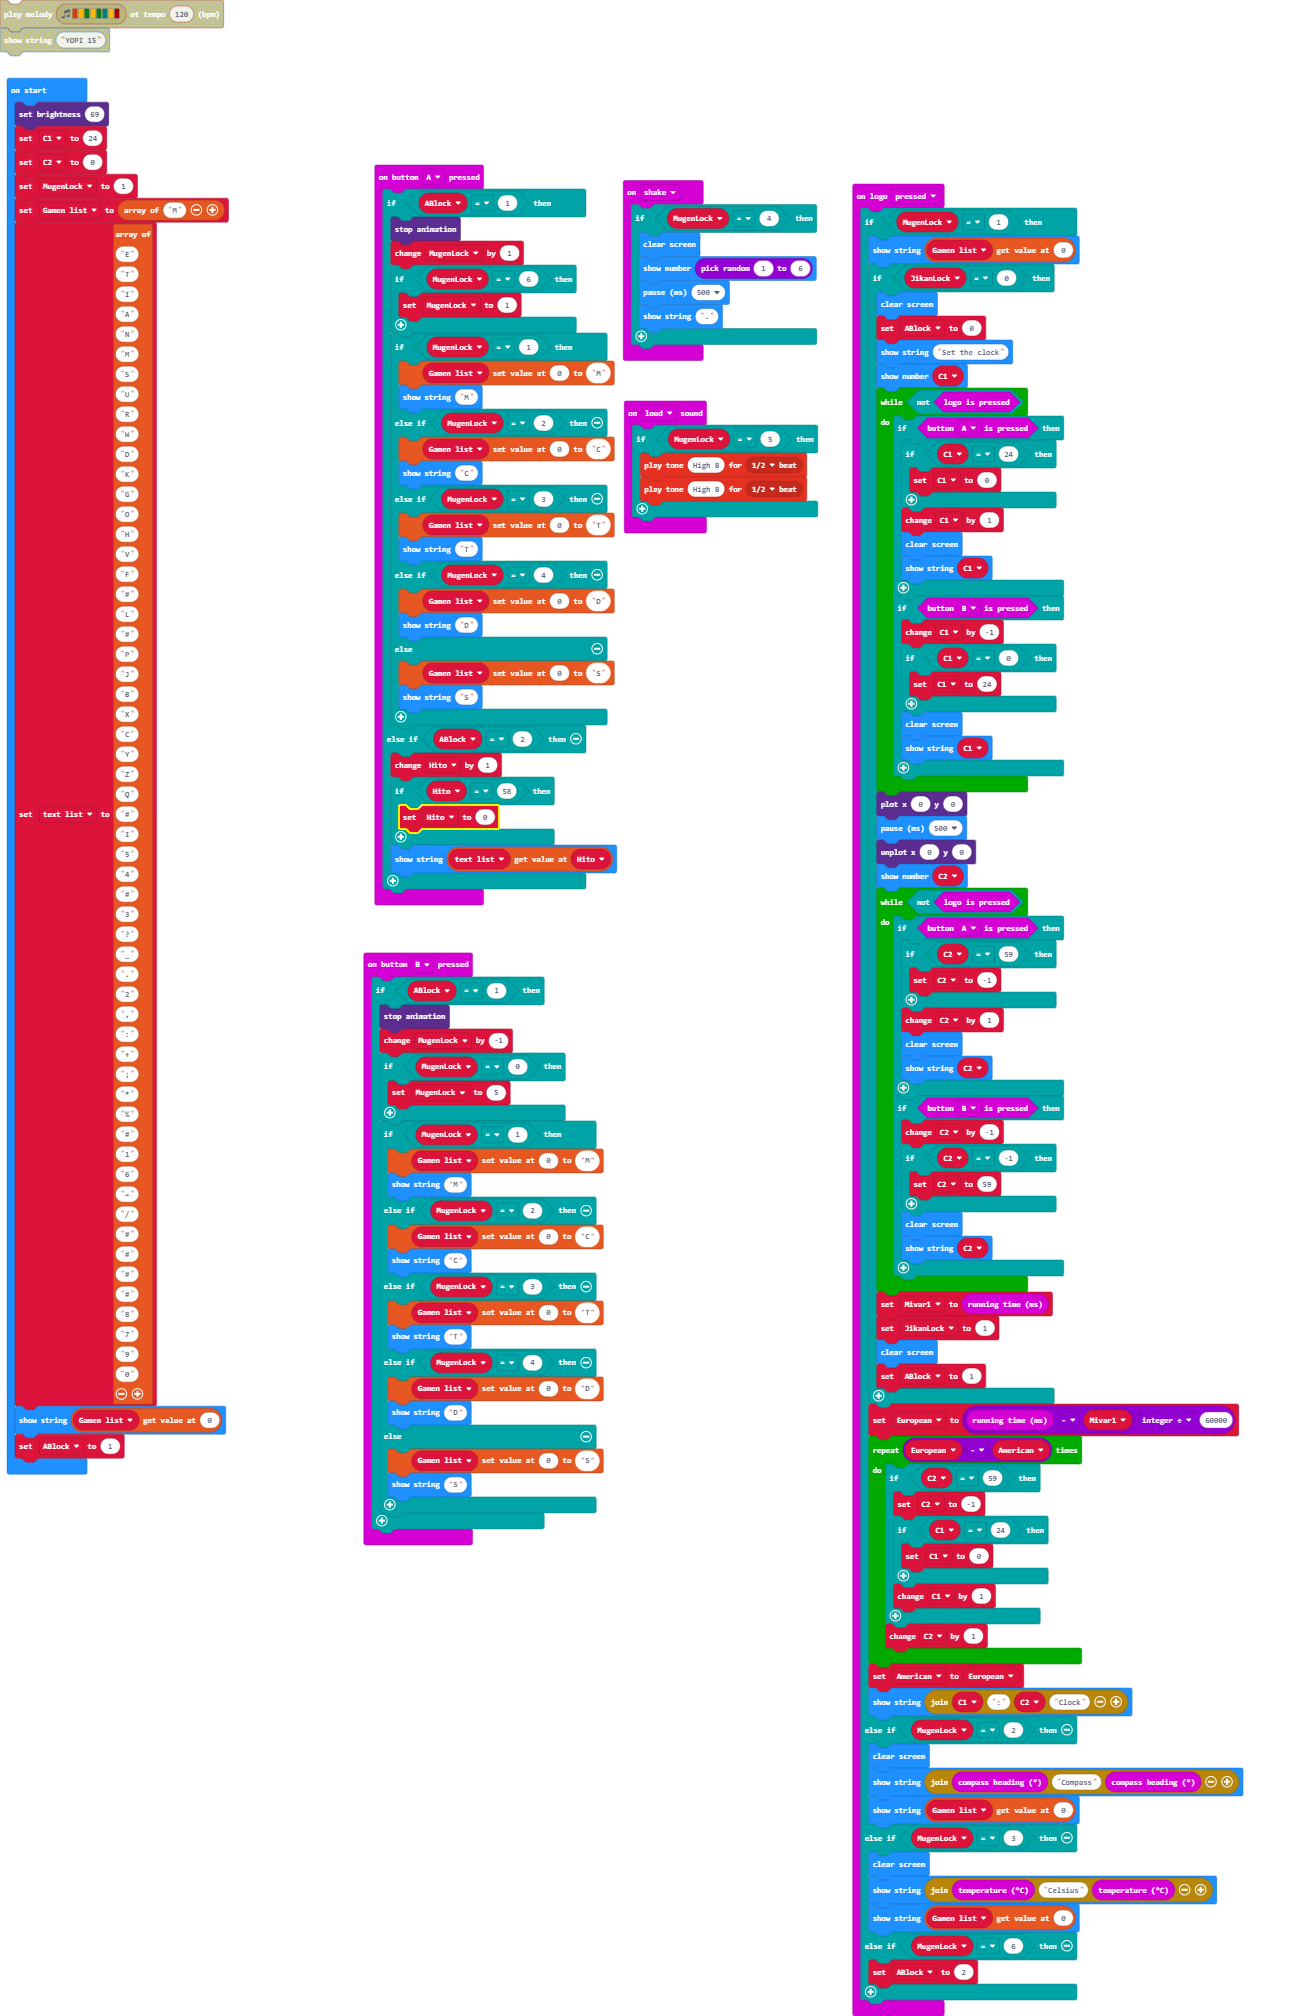
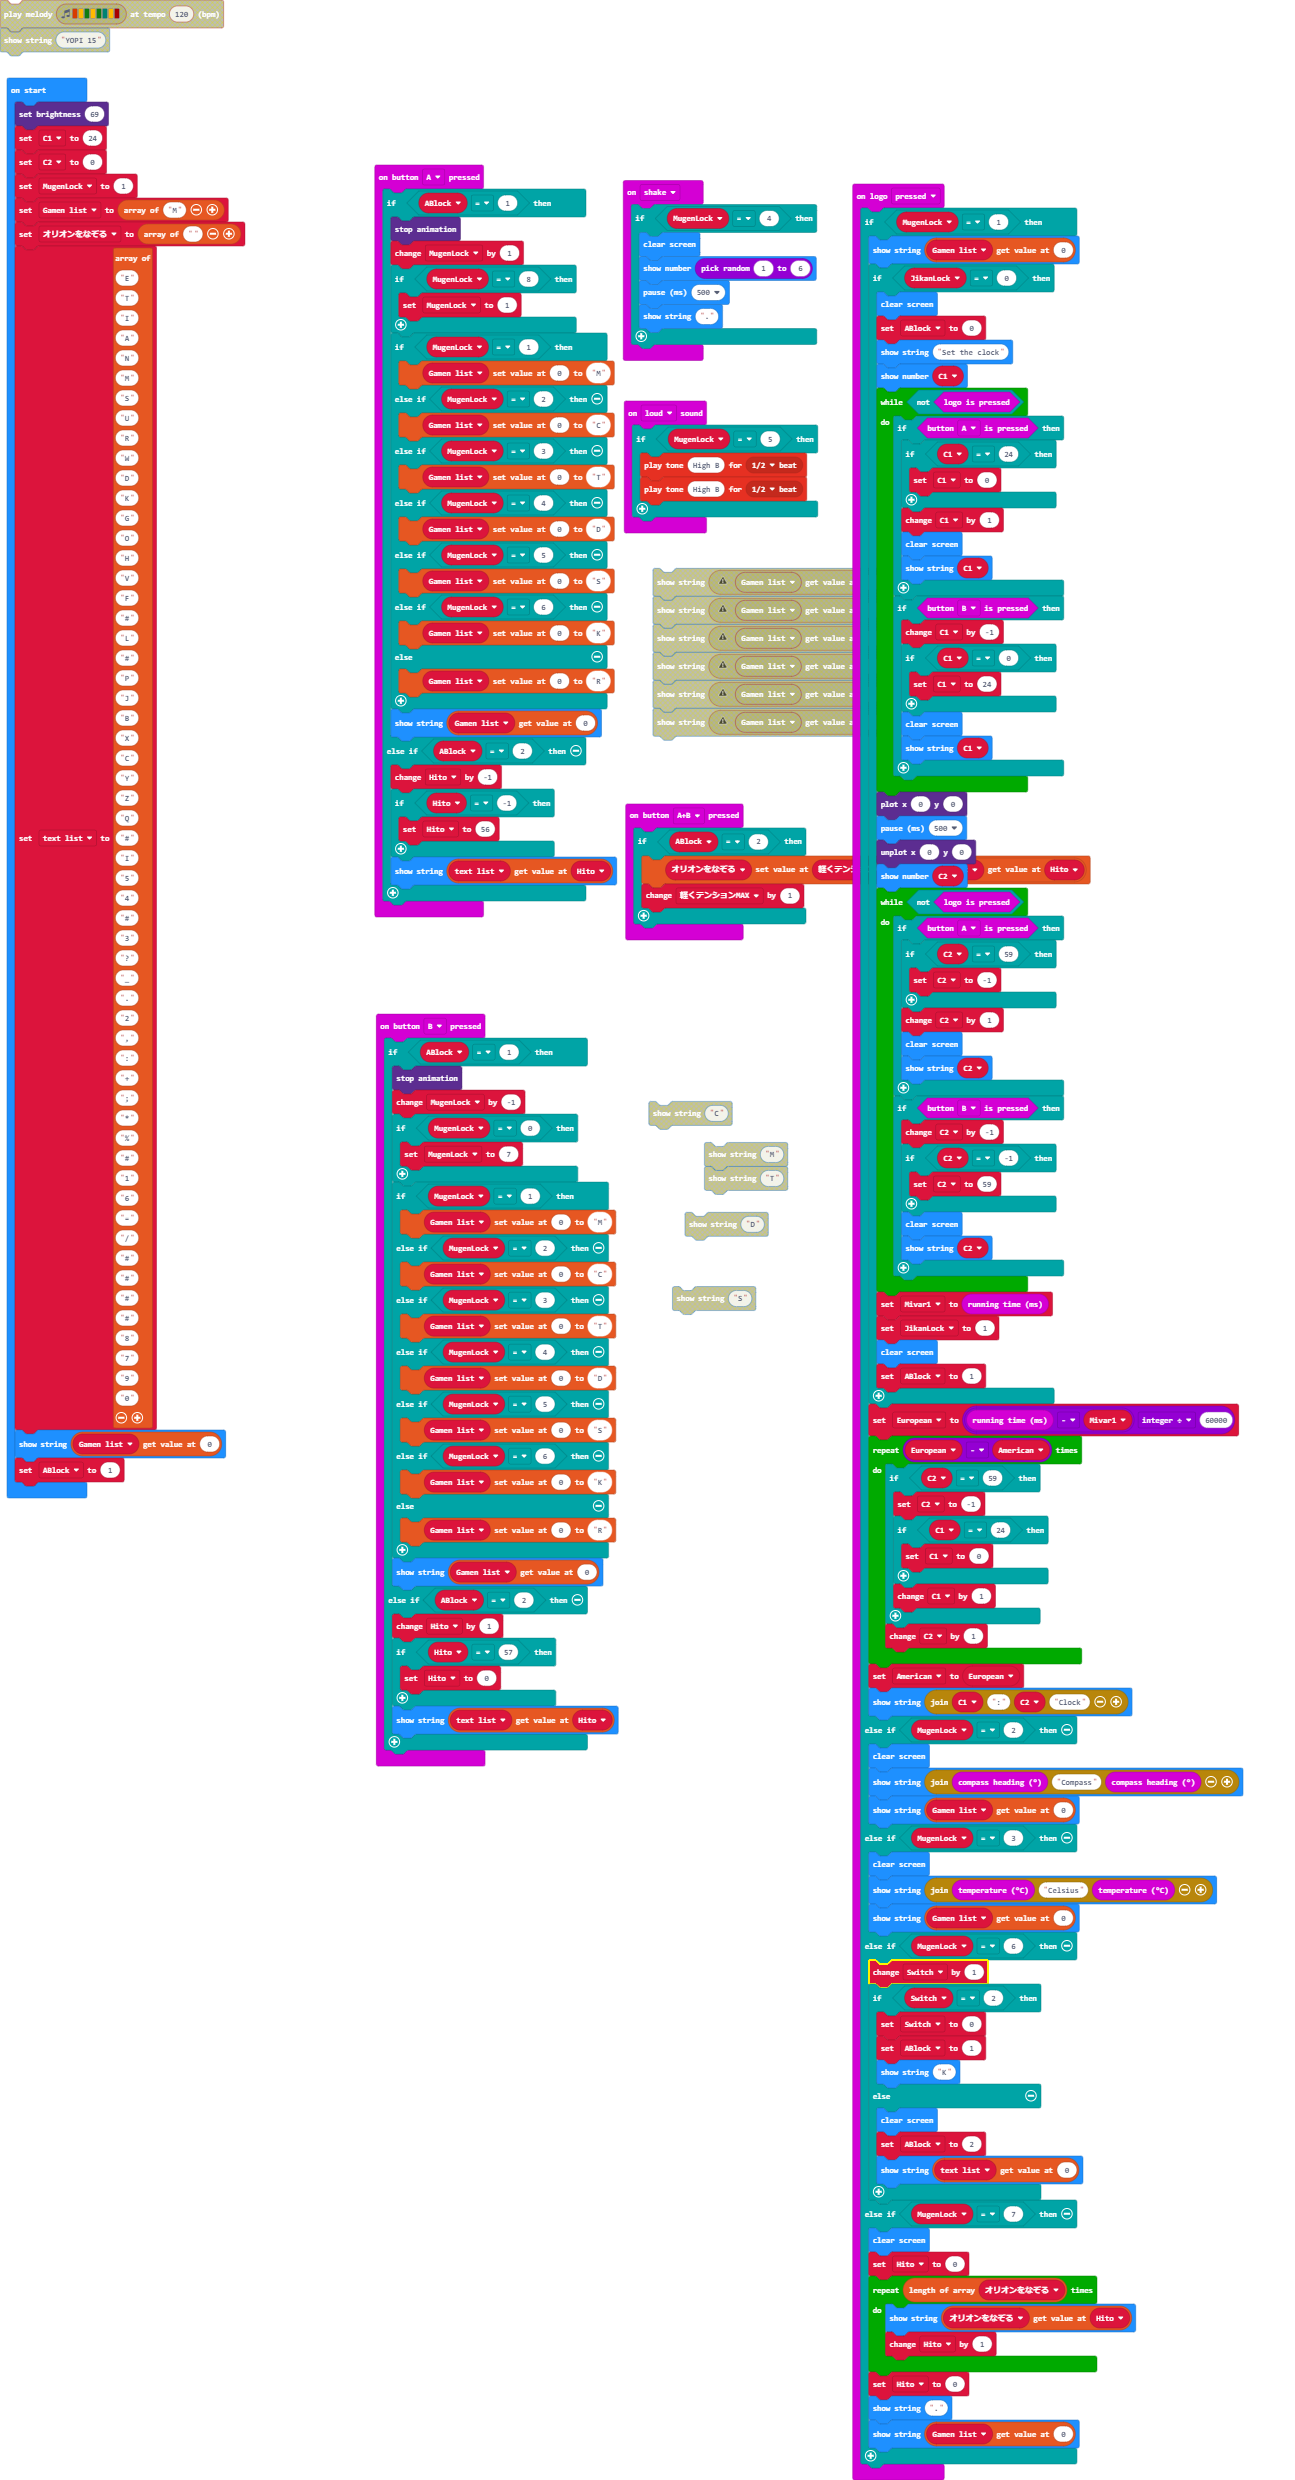
Update main.blocks, main.ts

Changed region(s): [[0.278, 0.0625, 0.9575, 1.0], [0.0, 0.0, 0.1853, 0.75], [0.4942, 0.4375, 0.6178, 0.5312]]

diff --git a/main.ts b/main.ts
@@ -2,29 +2,29 @@ input.onButtonPressed(Button.A, function () {
     if (ABlock == 1) {
         led.stopAnimation()
         MugenLock += 1
-        if (MugenLock == 6) {
+        if (MugenLock == 8) {
             MugenLock = 1
         }
         if (MugenLock == 1) {
             Gamen_list[0] = "M"
-            basic.showString("M")
         } else if (MugenLock == 2) {
             Gamen_list[0] = "C"
-            basic.showString("C")
         } else if (MugenLock == 3) {
             Gamen_list[0] = "T"
-            basic.showString("T")
         } else if (MugenLock == 4) {
             Gamen_list[0] = "D"
-            basic.showString("D")
-        } else {
+        } else if (MugenLock == 5) {
             Gamen_list[0] = "S"
-            basic.showString("S")
+        } else if (MugenLock == 6) {
+            Gamen_list[0] = "K"
+        } else {
+            Gamen_list[0] = "R"
         }
+        basic.showString("" + (Gamen_list[0]))
     } else if (ABlock == 2) {
-        Hito += 1
-        if (Hito == 58) {
-            Hito = 0
+        Hito += -1
+        if (Hito == -1) {
+            Hito = 56
         }
         basic.showString("" + (text_list[Hito]))
     }
@@ -35,29 +35,41 @@ input.onSound(DetectedSound.Loud, function () {
         music.playTone(988, music.beat(BeatFraction.Half))
     }
 })
+input.onButtonPressed(Button.AB, function () {
+    if (ABlock == 2) {
+        オリオンをなぞる[軽くテンションMAX] = text_list[Hito]
+        軽くテンションMAX += 1
+    }
+})
 input.onButtonPressed(Button.B, function () {
     if (ABlock == 1) {
         led.stopAnimation()
         MugenLock += -1
         if (MugenLock == 0) {
-            MugenLock = 5
+            MugenLock = 7
         }
         if (MugenLock == 1) {
             Gamen_list[0] = "M"
-            basic.showString("M")
         } else if (MugenLock == 2) {
             Gamen_list[0] = "C"
-            basic.showString("C")
         } else if (MugenLock == 3) {
             Gamen_list[0] = "T"
-            basic.showString("T")
         } else if (MugenLock == 4) {
             Gamen_list[0] = "D"
-            basic.showString("D")
-        } else {
+        } else if (MugenLock == 5) {
             Gamen_list[0] = "S"
-            basic.showString("S")
+        } else if (MugenLock == 6) {
+            Gamen_list[0] = "K"
+        } else {
+            Gamen_list[0] = "R"
         }
+        basic.showString("" + (Gamen_list[0]))
+    } else if (ABlock == 2) {
+        Hito += 1
+        if (Hito == 57) {
+            Hito = 0
+        }
+        basic.showString("" + (text_list[Hito]))
     }
 })
 input.onGesture(Gesture.Shake, function () {
@@ -143,16 +155,38 @@ input.onLogoEvent(TouchButtonEvent.Pressed, function () {
         basic.showString("" + input.temperature() + "Celsius" + input.temperature())
         basic.showString("" + (Gamen_list[0]))
     } else if (MugenLock == 6) {
-        ABlock = 2
+        Switch += 1
+        if (Switch == 2) {
+            Switch = 0
+            ABlock = 1
+            basic.showString("K")
+        } else {
+            basic.clearScreen()
+            ABlock = 2
+            basic.showString("" + (text_list[0]))
+        }
+    } else if (MugenLock == 7) {
+        basic.clearScreen()
+        Hito = 0
+        for (let index = 0; index < オリオンをなぞる.length; index++) {
+            basic.showString("" + (オリオンをなぞる[Hito]))
+            Hito += 1
+        }
+        Hito = 0
+        basic.showString(".")
+        basic.showString("" + (Gamen_list[0]))
     }
 })
+let Switch = 0
 let American = 0
 let European = 0
 let Mivar1 = 0
 let JikanLock = 0
+let 軽くテンションMAX = 0
 let Hito = 0
 let ABlock = 0
 let text_list: string[] = []
+let オリオンをなぞる: string[] = []
 let Gamen_list: string[] = []
 let MugenLock = 0
 let C2 = 0
@@ -162,6 +196,7 @@ C1 = 24
 C2 = 0
 MugenLock = 1
 Gamen_list = ["M"]
+オリオンをなぞる = [""]
 text_list = ["E", "T", "I", "A", "N", "M", "S", "U", "R", "W", "D", "K", "G", "O", "H", "V", "F", "#", "L", "#", "P", "J", "B", "X", "C", "Y", "Z", "Q", "#", "I", "5", "4", "#", "3", "?", "_", ".", "2", ",", ":", "+", ";", "*", "%", "#", "1", "6", "=", "/", "#", "#", "#", "#", "8", "7", "9", "0"]
 basic.showString("" + (Gamen_list[0]))
 ABlock = 1
